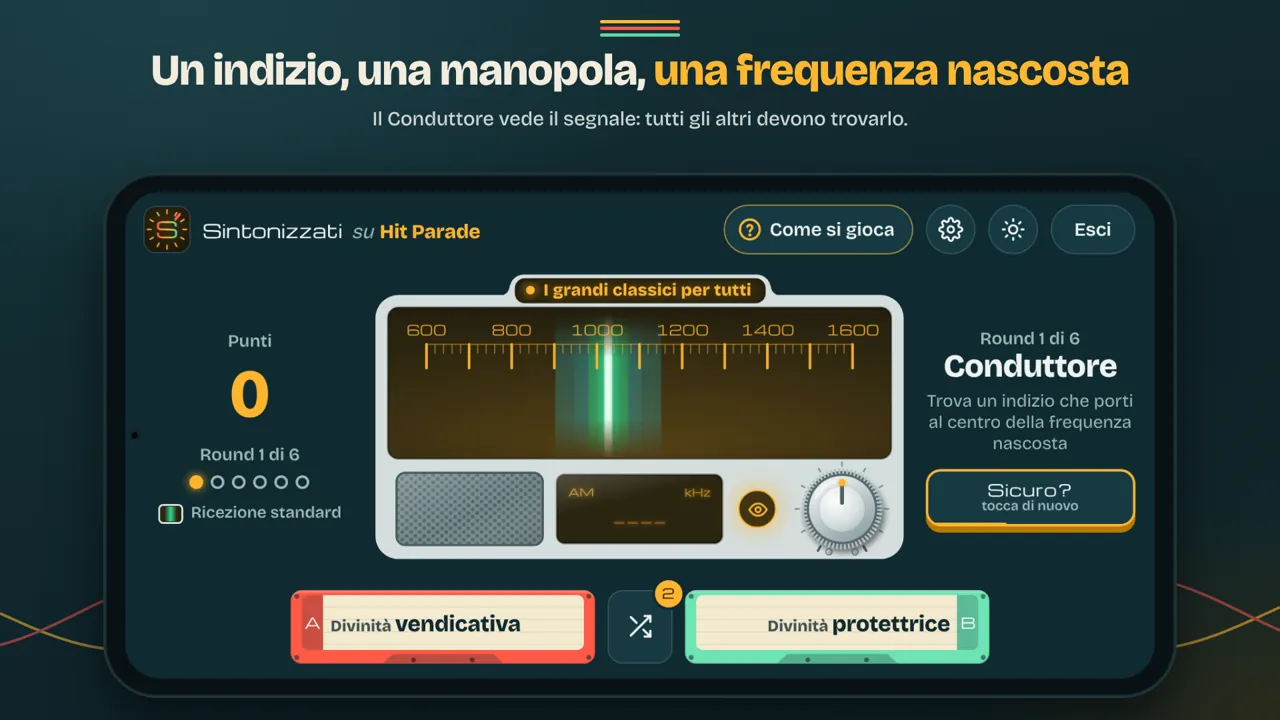
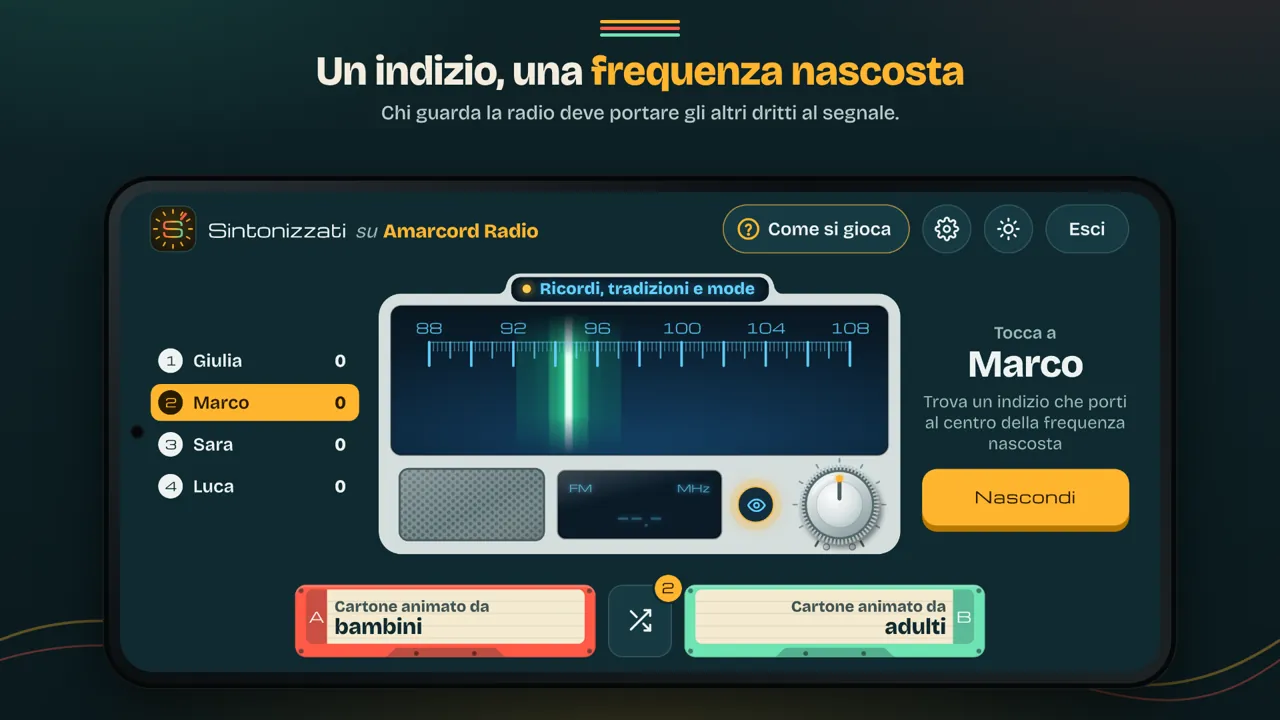
Add files via upload

diff --git a/index.html b/index.html
@@ -24,14 +24,14 @@
   <nav class="menu" aria-label="Sezioni del sito">
     <a href="/giochi/sintonizzati.html">Sintonizzati</a>
     <a href="/giochi/chi-di-noi.html">Chi di Noi</a>
-    <a href="/#contatti">Contatti</a>
+    <a href="mailto:mergiostudios@gmail.com">Contatti</a>
   </nav>
 </header>
 <main id="contenuto">
 <section class="dentro apertura">
   <div>
-    <h1 class="titolone">Un telefono solo, tutti intorno al tavolo.</h1>
-    <p class="sommario">Mergio Studios fa giochi di gruppo da passarsi di mano. Niente account, niente pubblicità, niente schermi a testa: si gioca guardandosi in faccia.</p>
+    <h1 class="titolone">Giochi di gruppo, un solo telefono.</h1>
+    <p class="sommario">Lo passate di mano in mano e la serata parte da sola. Stasera cosa vi va: girare la manopola di una radio o scoprire i segreti dei vostri amici?</p>
     <div class="tasti">
       <a class="tasto ambra" href="/giochi/sintonizzati.html">Scopri Sintonizzati</a>
       <a class="tasto rosa" href="/giochi/chi-di-noi.html">Scopri Chi di Noi</a>
@@ -40,12 +40,12 @@
   <svg class="tavolo" viewBox="0 0 400 400" role="img" aria-label="Un tavolo visto dall'alto: sei giocatori si passano un telefono">
   <circle cx="200" cy="200" r="118" fill="#10292F"/>
   <circle cx="200" cy="200" r="118" fill="none" stroke="#FFFFFF" stroke-opacity=".12" stroke-width="2" stroke-dasharray="3 9"/>
-  <circle class="posto" cx="200" cy="36" r="30" fill="#FFB52E"/>
-  <circle class="posto" cx="342" cy="118" r="30" fill="#FF5FB2"/>
-  <circle class="posto" cx="342" cy="282" r="30" fill="#3FC290"/>
-  <circle class="posto" cx="200" cy="364" r="30" fill="#FF5A47"/>
-  <circle class="posto" cx="58" cy="282" r="30" fill="#C8F53C"/>
-  <circle class="posto" cx="58" cy="118" r="30" fill="#8B6CE8"/>
+  <circle class="posto p1" cx="200" cy="36" r="30" fill="#FFB52E"/>
+  <circle class="posto p2" cx="342" cy="118" r="30" fill="#FF5FB2"/>
+  <circle class="posto p3" cx="342" cy="282" r="30" fill="#3FC290"/>
+  <circle class="posto p4" cx="200" cy="364" r="30" fill="#FF5A47"/>
+  <circle class="posto p5" cx="58" cy="282" r="30" fill="#C8F53C"/>
+  <circle class="posto p6" cx="58" cy="118" r="30" fill="#8B6CE8"/>
   <g class="telefono">
     <rect x="174" y="98" width="52" height="96" rx="11" fill="#FFF0C7"/>
     <rect x="180" y="106" width="40" height="72" rx="5" fill="#183A42"/>
@@ -67,7 +67,7 @@
         <a class="tasto vuoto" href="/sintonizzati/">Gioca nel browser</a>
       </div>
     </div>
-    <img class="schermo" src="/sito/img/sintonizzati-punti.webp" width="1280" height="720" loading="lazy" alt="Una partita a Sintonizzati: la lancetta è finita nella fascia da 4 punti, a un passo dal centro del segnale.">
+    <img class="schermo" src="/sito/img/sintonizzati-punti.webp" width="1280" height="720" loading="lazy" alt="Una partita a Sintonizzati: la radio rivela la frequenza nascosta e i punti di ogni giocatore.">
   </div>
 </section>
 
@@ -100,24 +100,12 @@
     </ul>
   </div>
 </section>
-
-<section class="sezione" id="contatti" aria-labelledby="h-cont" style="padding-top:0">
-  <div class="dentro due">
-    <div>
-      <h2 class="titolo" id="h-cont">Avete un locale o organizzate serate?</h2>
-    </div>
-    <div style="display:grid;gap:20px;justify-items:start">
-      <p class="sommario">Per pub, ludoteche e associazioni prepariamo locandine e foglietti da tavolo con una partita già pronta da provare. Scriveteci: rispondiamo a tutti, anche solo per un parere sui giochi.</p>
-      <a class="tasto" href="mailto:mergiostudios@gmail.com">Scrivi a mergiostudios@gmail.com</a>
-    </div>
-  </div>
-</section>
 </main>
 <footer class="piede">
   <div class="dentro">
     <div>
       <a class="marchio" href="/"><i class="strisce" aria-hidden="true"><i></i><i></i><i></i></i><span>Mergio Studios</span></a>
-      <p style="margin-top:14px;max-width:24em">Giochi di gruppo da fare intorno a un solo telefono.</p>
+      <p style="margin-top:14px;max-width:24em">Giochi di gruppo da fare insieme, con un solo telefono al centro del tavolo.</p>
     </div>
     <div>
       <h2>I giochi</h2>

diff --git a/giochi/sintonizzati.html b/giochi/sintonizzati.html
@@ -24,7 +24,7 @@
   <nav class="menu" aria-label="Sezioni del sito">
     <a href="/giochi/sintonizzati.html" aria-current="page">Sintonizzati</a>
     <a href="/giochi/chi-di-noi.html">Chi di Noi</a>
-    <a href="/#contatti">Contatti</a>
+    <a href="mailto:mergiostudios@gmail.com">Contatti</a>
   </nav>
 </header>
 <main id="contenuto">
@@ -69,8 +69,8 @@
 </section>
 
 <div class="galleria" role="region" aria-label="Schermate di Sintonizzati" tabindex="0">
-  <figure><img src="/sito/img/sintonizzati-indizio.webp" width="1280" height="720" loading="lazy" alt="Il Conduttore vede il segnale sulla scala della radio e deve trovare un indizio."></figure>
-  <figure><img src="/sito/img/sintonizzati-punti.webp" width="1280" height="720" loading="lazy" alt="La lancetta nella fascia da 4 punti: più vi avvicinate, più punti fate."></figure>
+  <figure><img src="/sito/img/sintonizzati-indizio.webp" width="1280" height="720" loading="lazy" alt="Il Conduttore vede il segnale sulla scala della radio e deve trovare un indizio tra «Cartone animato da bambini» e «da adulti»."></figure>
+  <figure><img src="/sito/img/sintonizzati-punti.webp" width="1280" height="720" loading="lazy" alt="La rivelazione: più vi avvicinate al centro del segnale, più punti fate."></figure>
   <figure><img src="/sito/img/sintonizzati-modalita.webp" width="1280" height="720" loading="lazy" alt="La scelta della modalità: quattro modi di giocare con un solo telefono."></figure>
   <figure><img src="/sito/img/sintonizzati-impostore.webp" width="1280" height="720" loading="lazy" alt="La modalità Impostore: Operatori contro Disturbatori."></figure>
   <figure><img src="/sito/img/sintonizzati-poteri.webp" width="1280" height="720" loading="lazy" alt="Una carta potere della variante Poteri nascosti."></figure>
@@ -132,7 +132,7 @@
   <div class="dentro">
     <div>
       <a class="marchio" href="/"><i class="strisce" aria-hidden="true"><i></i><i></i><i></i></i><span>Mergio Studios</span></a>
-      <p style="margin-top:14px;max-width:24em">Giochi di gruppo da fare intorno a un solo telefono.</p>
+      <p style="margin-top:14px;max-width:24em">Giochi di gruppo da fare insieme, con un solo telefono al centro del tavolo.</p>
     </div>
     <div>
       <h2>I giochi</h2>

diff --git a/sito/stile.css b/sito/stile.css
@@ -96,15 +96,15 @@ a { color: inherit; }
 .apertura .tasti { margin-top: 32px; }
 .tavolo { width: 100%; max-width: 460px; justify-self: center; }
 .tavolo .telefono { transform-origin: 200px 200px; animation: passa 12s cubic-bezier(.7, 0, .2, 1) infinite; }
+/* il telefono arriva davanti a un posto ogni 2 secondi (a 0, 2, 4… s): quel pallino si illumina appena il telefono si ferma */
 .tavolo .posto { transform-box: fill-box; transform-origin: center; animation: tocca 12s linear infinite; }
-.tavolo .posto:nth-of-type(2) { animation-delay: 2s; } .tavolo .posto:nth-of-type(3) { animation-delay: 4s; }
-.tavolo .posto:nth-of-type(4) { animation-delay: 6s; } .tavolo .posto:nth-of-type(5) { animation-delay: 8s; }
-.tavolo .posto:nth-of-type(6) { animation-delay: 10s; }
+.tavolo .p2 { animation-delay: 2s; } .tavolo .p3 { animation-delay: 4s; } .tavolo .p4 { animation-delay: 6s; }
+.tavolo .p5 { animation-delay: 8s; } .tavolo .p6 { animation-delay: 10s; }
 @keyframes passa {
   0%, 12% { transform: rotate(0deg); } 16.6%, 28.6% { transform: rotate(60deg); } 33.3%, 45.3% { transform: rotate(120deg); }
   50%, 62% { transform: rotate(180deg); } 66.6%, 78.6% { transform: rotate(240deg); } 83.3%, 95.3% { transform: rotate(300deg); } 100% { transform: rotate(360deg); }
 }
-@keyframes tocca { 0%, 13%, 100% { transform: scale(1); } 3%, 9% { transform: scale(1.22); } }
+@keyframes tocca { 0%, 11%, 100% { transform: scale(1); } 2.5%, 8% { transform: scale(1.22); } }
 @media (max-width: 820px) { .apertura { grid-template-columns: 1fr; } .tavolo { max-width: 300px; order: -1; justify-self: start; } }
 
 /* ---------- home: i due giochi ---------- */

diff --git a/giochi/chi-di-noi.html b/giochi/chi-di-noi.html
@@ -24,7 +24,7 @@
   <nav class="menu" aria-label="Sezioni del sito">
     <a href="/giochi/sintonizzati.html">Sintonizzati</a>
     <a href="/giochi/chi-di-noi.html" aria-current="page">Chi di Noi</a>
-    <a href="/#contatti">Contatti</a>
+    <a href="mailto:mergiostudios@gmail.com">Contatti</a>
   </nav>
 </header>
 <main id="contenuto">
@@ -128,7 +128,7 @@
   <div class="dentro">
     <div>
       <a class="marchio" href="/"><i class="strisce" aria-hidden="true"><i></i><i></i><i></i></i><span>Mergio Studios</span></a>
-      <p style="margin-top:14px;max-width:24em">Giochi di gruppo da fare intorno a un solo telefono.</p>
+      <p style="margin-top:14px;max-width:24em">Giochi di gruppo da fare insieme, con un solo telefono al centro del tavolo.</p>
     </div>
     <div>
       <h2>I giochi</h2>

diff --git a/privacy.html b/privacy.html
@@ -24,7 +24,7 @@
   <nav class="menu" aria-label="Sezioni del sito">
     <a href="/giochi/sintonizzati.html">Sintonizzati</a>
     <a href="/giochi/chi-di-noi.html">Chi di Noi</a>
-    <a href="/#contatti">Contatti</a>
+    <a href="mailto:mergiostudios@gmail.com">Contatti</a>
   </nav>
 </header>
 <main id="contenuto">
@@ -53,7 +53,7 @@
   <div class="dentro">
     <div>
       <a class="marchio" href="/"><i class="strisce" aria-hidden="true"><i></i><i></i><i></i></i><span>Mergio Studios</span></a>
-      <p style="margin-top:14px;max-width:24em">Giochi di gruppo da fare intorno a un solo telefono.</p>
+      <p style="margin-top:14px;max-width:24em">Giochi di gruppo da fare insieme, con un solo telefono al centro del tavolo.</p>
     </div>
     <div>
       <h2>I giochi</h2>

diff --git a/termini.html b/termini.html
@@ -24,7 +24,7 @@
   <nav class="menu" aria-label="Sezioni del sito">
     <a href="/giochi/sintonizzati.html">Sintonizzati</a>
     <a href="/giochi/chi-di-noi.html">Chi di Noi</a>
-    <a href="/#contatti">Contatti</a>
+    <a href="mailto:mergiostudios@gmail.com">Contatti</a>
   </nav>
 </header>
 <main id="contenuto">
@@ -77,7 +77,7 @@
   <div class="dentro">
     <div>
       <a class="marchio" href="/"><i class="strisce" aria-hidden="true"><i></i><i></i><i></i></i><span>Mergio Studios</span></a>
-      <p style="margin-top:14px;max-width:24em">Giochi di gruppo da fare intorno a un solo telefono.</p>
+      <p style="margin-top:14px;max-width:24em">Giochi di gruppo da fare insieme, con un solo telefono al centro del tavolo.</p>
     </div>
     <div>
       <h2>I giochi</h2>
